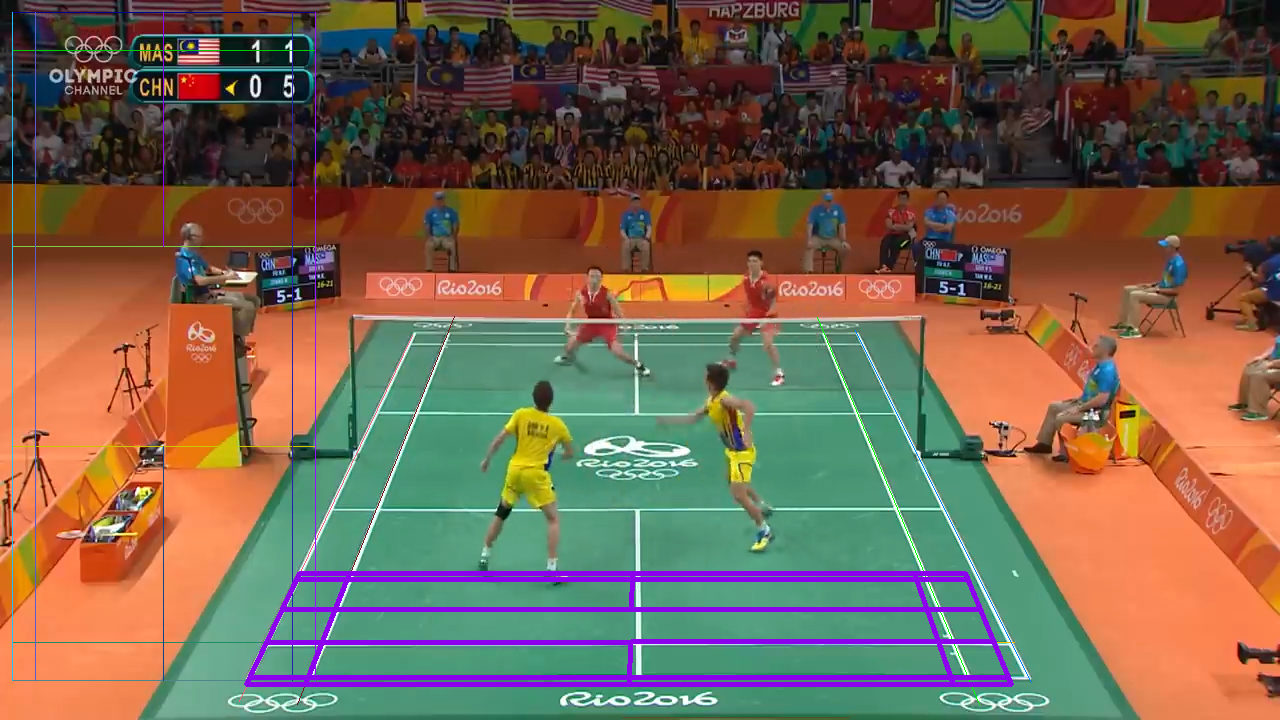
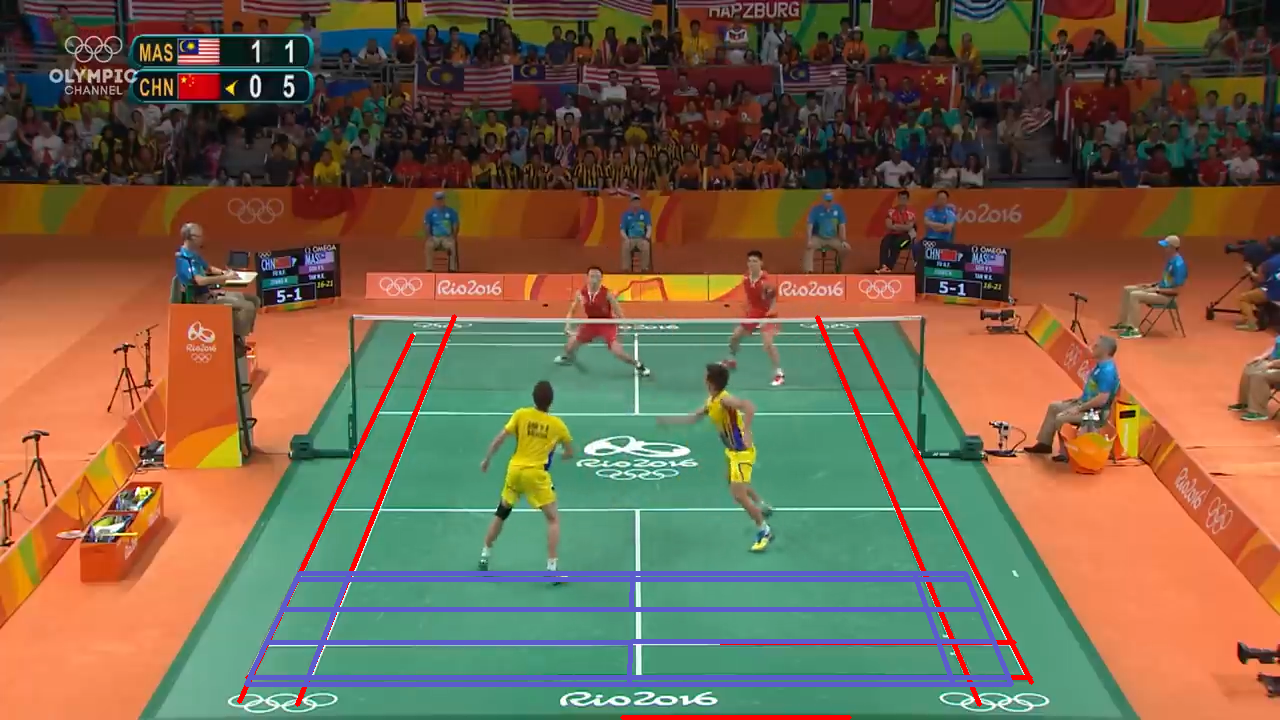
不知道是啥

Changed region(s): [[0.1875, 0.4583, 0.8125, 1.0], [0.25, 0.4583, 0.375, 0.7639]]

diff --git a/mmskeleton/court/court_model.py b/mmskeleton/court/court_model.py
@@ -51,7 +51,7 @@ class court_model(object):
 		i = 0
 		while i < 4 and (self.image.get('lines') is None or self.image.get('lines').shape[0] < 5):
 			candidate, contours = self.white_pixel_extract(img, threshold=10+5*i)
-			self.line_detection(candidate, contours, img)
+			self.line_detection(candidate, img, contours)
 			i += 1
 		if self.image.get('lines') is None or self.image['lines'].shape[0] < 5:
 			f = 'scores.txt'
@@ -315,13 +315,14 @@ class court_model(object):
 			purenormals: a (m * 5) matrix
 		'''
 		# remove lines those are not in the court contours.
-		valid = np.zeros((lines.shape[0]), dtype=int)
-		for cnt in contours:
-			p1 = np.array([cv2.pointPolygonTest(cnt, (int(l[0]), int(l[1])), True) for l in lines])
-			p2 = np.array([cv2.pointPolygonTest(cnt, (int(l[2]), int(l[3])), True) for l in lines])
-			v = np.where((p1 > 0) & (p2 > 0), 1, 0)
-			valid = cv2.bitwise_or(valid, v).reshape(-1)
-		lines = lines[np.argwhere(valid == 1)[:, 0]]
+		if contours is not None:
+			valid = np.zeros((lines.shape[0]), dtype=int)
+			for cnt in contours:
+				p1 = np.array([cv2.pointPolygonTest(cnt, (int(l[0]), int(l[1])), True) for l in lines])
+				p2 = np.array([cv2.pointPolygonTest(cnt, (int(l[2]), int(l[3])), True) for l in lines])
+				v = np.where((p1 > 0) & (p2 > 0), 1, 0)
+				valid = cv2.bitwise_or(valid, v).reshape(-1)
+			lines = lines[np.argwhere(valid == 1)[:, 0]]
 
 		# 计算法线
 		normal = self.calculate_normal(lines)
@@ -345,7 +346,7 @@ class court_model(object):
 		return purelines, purenormals
 
 	
-	def line_detection(self, img, contours, source_image):
+	def line_detection(self, img, source_image, contours=None):
 		"""
 		:params: img: input image. we detecte lines from this image.
 		:return: purelines: detected lines.
@@ -387,10 +388,9 @@ class court_model(object):
 		self.image['normals'] = purenormals
 		
 		result3 = source_image.copy()
-		# pl = np.concatenate((purelines, self.standard['hlines'], self.standard['vlines']), axis=0)
-		pl = purelines
+		pl = np.concatenate((purelines, self.standard['hlines'], self.standard['vlines']), axis=0)
 		cix = np.ones((pl.shape[0]), dtype=np.int8) * 10
-		self.draw_line("pureline/"+self.name+".png", result3, pl, coloridx=cix, thickness=3)
+		self.draw_line("pureline/"+self.name+".png", result3, pl, coloridx=cix, thickness=1)
 		
 		self.calculate_intersections_as_matrix(purelines)
 
@@ -479,7 +479,9 @@ class court_model(object):
 			dst = np.matmul(M, point1).T
 			return dst
 		
-		sl = np.concatenate((self.standard['hlines'], self.standard['vlines']), axis=0) # n * 4
+		# sl = np.concatenate((self.standard['hlines'], self.standard['vlines']), axis=0) # n * 4
+		# n = sl.shape[0]
+		sl = self.image['lines']
 		n = sl.shape[0]
 		
 		pt1 = get_3d_points(sl[:, :2], M)
@@ -654,7 +656,8 @@ class court_model(object):
 				# 	continue
 
 				# 3. calculate homography matrix H
-				M = cv2.getPerspectiveTransform(np.float32(st_points), np.float32(ig_points))
+				M = cv2.getPerspectiveTransform(np.float32(ig_points), np.float32(st_points))
+				# M = cv2.getPerspectiveTransform(np.float32(st_points), np.float32(ig_points))
 
 				if M is None:
 					continue
@@ -662,29 +665,29 @@ class court_model(object):
 				# for each point(x, y) in standard model, we calculate (u, v, 1) = M*(x, y, 1)^T
 				mapping_lines = self.calculate_mapping_lines(M)
 				
-				# testimg = cv2.imread("pureline/"+self.name+".png")
-				# pp = st_points.astype(np.int)
-				# i = 3
-				# for j in range(4):
-				# 	cv2.circle(testimg, pp[j], i, (0, 0, 255), thickness=-1)
-				# 	i += 2
-				# pp = ig_points.astype(np.int)
-				# i = 3
-				# for j in range(4):
-				# 	cv2.circle(testimg, pp[j], i, (0, 255, 0), thickness=-1)
-				# 	i += 2
-				# tmp = st_points.reshape((1, 4, 2)).astype(np.float32)
-				# mp_points = cv2.perspectiveTransform(tmp, M)
-				# mp_points = mp_points.reshape((4, 2)).astype(int)
-				# i = 5
-				# for j in range(4):
-				# 	cv2.circle(testimg, mp_points[j], i, (255, 0, 0), thickness=2)
-				# 	i += 3
-				# mapping_lines = mapping_lines.astype(int)
-				# iname = 'mapimage/' + idxstr + '_' + str(sh) + '_' + str(sv) + '.png'
-				# color = np.ones((mapping_lines.shape[0]), dtype='uint8') * 6
+				testimg = cv2.imread("pureline/"+self.name+".png")
+				pp = st_points.astype(np.int)
+				i = 3
+				for j in range(4):
+					cv2.circle(testimg, pp[j], i, (0, 0, 255), thickness=-1)
+					i += 2
+				pp = ig_points.astype(np.int)
+				i = 3
+				for j in range(4):
+					cv2.circle(testimg, pp[j], i, (0, 255, 0), thickness=-1)
+					i += 2
+				tmp = st_points.reshape((1, 4, 2)).astype(np.float32)
+				mp_points = cv2.perspectiveTransform(tmp, M)
+				mp_points = mp_points.reshape((4, 2)).astype(int)
+				i = 5
+				for j in range(4):
+					cv2.circle(testimg, mp_points[j], i, (255, 0, 0), thickness=2)
+					i += 3
+				mapping_lines = mapping_lines.astype(int)
+				iname = 'mapimage/' + idxstr + '_' + str(sh) + '_' + str(sv) + '.png'
+				color = np.ones((mapping_lines.shape[0]), dtype='uint8') * 6
 				
-				# self.draw_line(iname, testimg, mapping_lines, coloridx=color, thickness=2)
+				self.draw_line(iname, testimg, mapping_lines, coloridx=color, thickness=2)
 
 				# 5. calculate accuracy score of p, and get the most suitable one.
 				s, m_count = self.calculate_score(mapping_lines)

diff --git a/mmskeleton/processor/skeleton_dataset.py b/mmskeleton/processor/skeleton_dataset.py
@@ -40,7 +40,7 @@ def get_all_files(path):
             allfile.append(os.path.join(dirpath, dir))
         for name in filenames:
             allfile.append(os.path.join(dirpath, name))
-    allfile = list(filter(lambda x: x.find(".mp4") >= 0, allfile))
+    allfile = list(filter(lambda x: x.find(".png") >= 0, allfile))
     return allfile
 
 def build_court(detection_cfg,
@@ -77,6 +77,8 @@ def build_court(detection_cfg,
     prog_bar = ProgressBar(len(image_file_list))
     for image_file in image_file_list:
         image_name = image_file.split('/')[-1].split('.')[0]
+        if image_name != '031':
+            continue
         reader = cv2.imread(image_file)
         frame_court_model = court_model(reader, image_name)
         prog_bar.update()
